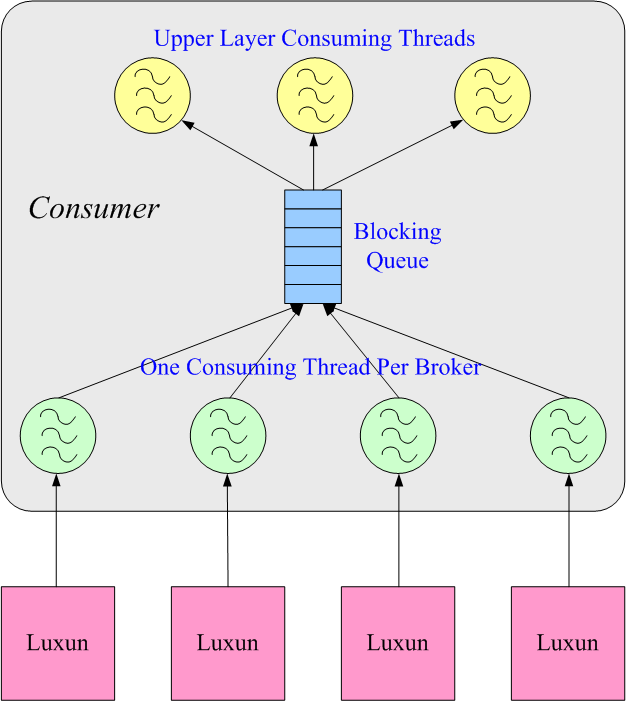
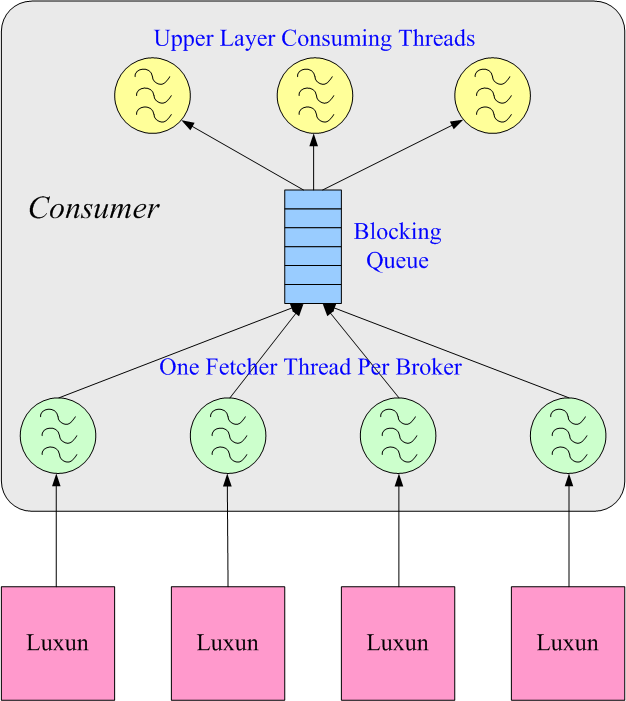
Site updated at 2013-04-09 07:41:00 UTC

Changed region(s): [[0.2125, 0.5093, 0.7891, 0.5392]]

diff --git a/blog/2013/03/27/the-architecture-and-design-of-a-pub-sub-messaging-system/index.html b/blog/2013/03/27/the-architecture-and-design-of-a-pub-sub-messaging-system/index.html
@@ -926,20 +926,32 @@ reduce bandwidth and storage usage to an acceptable level. Most of big data like
 </ul>
 </blockquote>
 
-<p>The the concrete <code>IStreamFactory</code> implementation will return a list of message streams per topic, then you can delegate these message streams to different threads for concurrent consuming.
-Behind the scene, concrete <code>IStreamFactory</code> implementation will spawn a couple of consuming threads(one thread for one broker) that will concurrently consume messages in target topic in Luxun servers, and put the consumed messages into a blocking queue, <code>MessageStream</code> abstraction is just a wrapper around the blocking queue with additional <code>Iterable</code> support, when upper layer threads concurrently consume on their respective streams, they are actually contenting messages in one blocking queue.</p>
+<p>The concrete <code>IStreamFactory</code> implementation will return a list of message streams per topic, then you can delegate these message streams to different threads for concurrent consuming.
+Behind the scene, concrete <code>IStreamFactory</code> implementation will spawn a couple of fetcher threads(one thread for one broker) that will concurrently fetch messages in target topic in Luxun servers, and put the fetched messages into a blocking queue, <code>MessageStream</code> abstraction is just a wrapper around the blocking queue with additional <code>Iterable</code> support, when upper layer threads concurrently consume on their respective streams, they are actually contenting messages in one blocking queue.</p>
 
 <p><img class="center" src="/images/luxun/concurrent_consuming.png" width="400" height="600"></p>
 
 <p>Advanced consumer has encapsulated the message decoding flow, so when you iterate on the message stream, you will get message in user format directly.</p>
 
-<p>Similar to producer, consumer uses a simple and random policy for distributed consuming, the spawned  threads will continuously check broker for message, if no message available in a certain broker, the corresponding thread will back off till message is available again, this can avoid frequent while fruitless server pull.</p>
+<p>Similar to producer, consumer uses a simple and random policy for distributed consuming, the spawned  fetcher threads will continuously check broker for message, if no message available in a certain broker, the corresponding thread will back off till message is available again, this can avoid frequent while fruitless server pull.</p>
 
-<p>When you finish with consuming, call <code>close</code> on the <code>IStreamFactory</code> will stop the underlying consuming threads, then wait the blocking queue to be emptied by upper threads. Call <code>close</code> is a must to avoid message lose.</p>
+<p>When you finish with consuming, call <code>close</code> on the <code>IStreamFactory</code> will stop the underlying fetcher threads, then wait the blocking queue to be emptied by upper consuming threads. Call <code>close</code> is a must to avoid message lose.</p>
 
-<p>In case one consumer is not enough to keep up with the speed of producers, several consumer can form a <code>consumer group</code>, in such case, every consumer in the same group will use same <code>group id</code>(or <code>fanout id</code>), and every message will be consumed by one and only one consumer. This is just the <code>consume once semantics</code>.</p>
+<p>In case one consumer is not enough to keep up with the speed of producers, several consumer can form a <code>consumer group</code>, in such case, every consumer in the same group will use same <code>group id</code>(or <code>fanout id</code>), and every message in a topic will be consumed by one and only one consumer. This is just the <code>consume once semantics</code>.</p>
 
-<p>If different consumers or consumer groups use different <code>group id</code>(or <code>fanout id</code>) to consume messages in same topic, then every consumer(or consumer group) can consume independently, means every message in the topic will go to every consumer(or consume group). This is just the <code>fanout queue semantics</code>.</p>
+<p>If different consumers or consumer groups use different <code>group id</code>(or <code>fanout id</code>) to consume messages in same topic, then every consumer(or consumer group) can consume independently, means every message in a topic will go to every consumer(or consume group). This is just the <code>fanout queue semantics</code>.</p>
+
+<p>Below is a figure vividly shows the <code>consume once</code> queue, <code>fanout</code> queue and <code>group consuming</code> semantics, in the figure:</p>
+
+<blockquote><ol>
+<li>There is a topic called <code>moon</code> distributed on four Luxun brokers.</li>
+<li>There are two topic <code>moon</code> consuming groups, group A and group B.</li>
+<li>In group A, there are four topic <code>moon</code> consumers.</li>
+<li>In group B, there are six topic <code>moon</code> consumers.</li>
+</ol>
+</blockquote>
+
+<p>Within a consumer group, a message in a topic can only be consumed by exact one consumer, for example, in consumer group A, message marked red can only be consumed by exact on consumer. Among different consumer groups, a message can be consumed by respective groups independently, for example, both group A and B will receive a separate copy of message marked green.</p>
 
 <p><img class="center" src="/images/luxun/consumer_group.png" width="400" height="600"></p>
 
@@ -972,7 +984,7 @@ Behind the scene, concrete <code>IStreamFactory</code> implementation will spawn
 </li>
 <li>Luxun leveraged <a href="http://thrift.apache.org/">Thrift RPC</a> as communication layer, while Kafka built its custom NIO communication layer and messaging protocol, custom NIO layer may have better performance, while Thrift makes generating communication infrastructure and cross-language clients(producer or consumer) fairy simple, this is a typical maintainability over performance design decision.</li>
 <li>Luxun message consuming is index(array like) based, while Kafka message consuming is offset based, we believe index access mode can simplify design and can separate error domain better than offset.</li>
-<li>Luxun uses simple and random distribution mechanism for scalability, similar to Kestrel, each server handles a set of reliable, ordered message queues. When you put a cluster of these server together, with no cross communication, and pick a server at random whenever you do a <code>produce</code> or <code>consume</code>, you end up with a reliable, loosely ordered message queue(in many situations, loose ordering is sufficient). On the other hand, Kafka relies on Zookeeper for distributed coordination, We believe Zookeeper is still too heavy-weight for small to medium sized companies(the main targets of Luxun), and the learning curve is still steep for average developers. Of cause, Luxun has extension point left for future possible Zookeeper integration.</li>
+<li>Luxun uses simple and random distribution mechanism for scalability, similar to <a href="https://github.com/robey/kestrel">Kestrel</a>, each server handles a set of reliable, ordered message queues. When you put a cluster of these server together, with no cross communication, and pick a server at random whenever you do a <code>produce</code> or <code>consume</code>, you end up with a reliable, loosely ordered message queue(in many situations, loose ordering is sufficient). On the other hand, Kafka relies on Zookeeper for distributed coordination, We believe Zookeeper is still too heavy-weight for small to medium sized companies(the main targets of Luxun), and the learning curve is still steep for average developers. Of cause, Luxun has extension point left for future possible Zookeeper integration.</li>
 <li>Luxun only supports server level partitioning - partition a topic on different servers, while Kafka supports partitioning within a topic. Our performance test show partitioning within a topic has no performance gain, at the same time, it makes design complex.</li>
 </ol>
 </blockquote>
